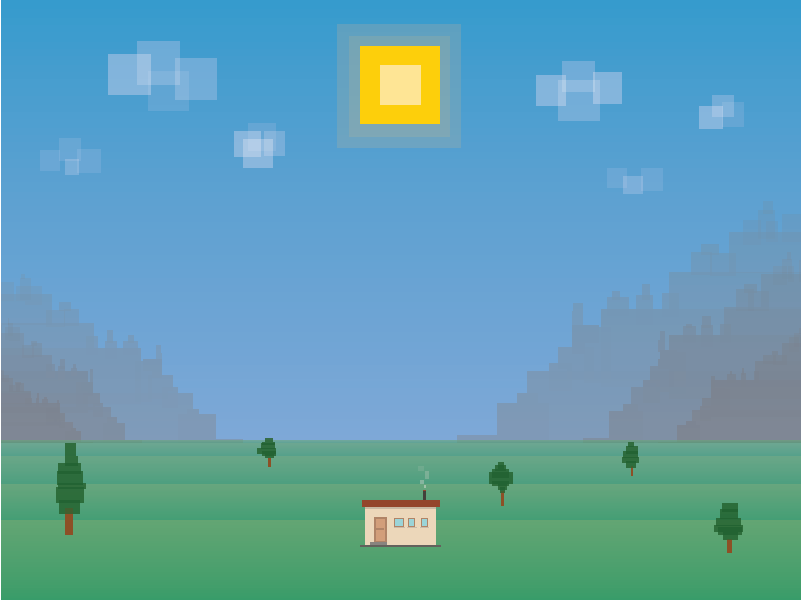
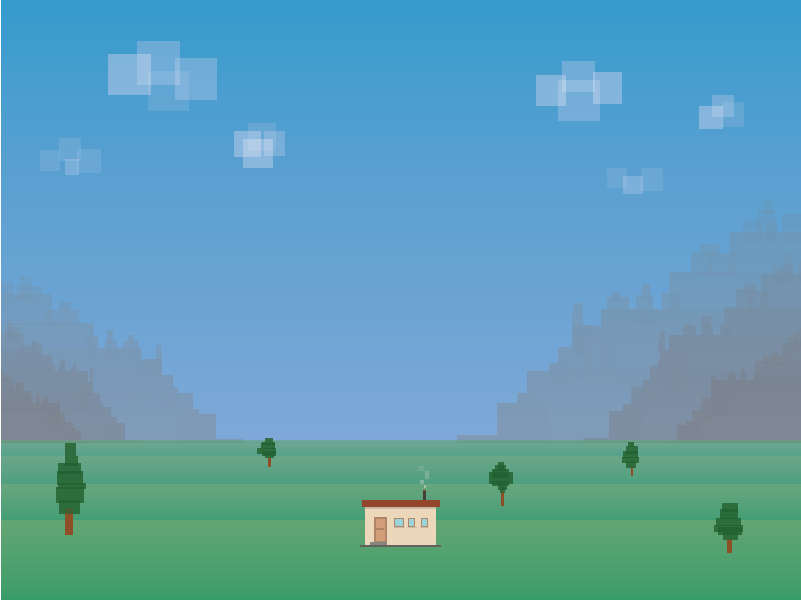
Shake sun on hit

Changed region(s): [[0.4057, 0.03, 0.593, 0.27]]

diff --git a/web/js/game.js b/web/js/game.js
@@ -64,6 +64,7 @@ window.GhostLand.Game = (function(GhostLand){
       , intro: null
       , start: null
       }
+    , sun
 
   function init() {
     game = new Phaser.Game(Settings.width, Settings.height, Phaser.AUTO, 'ghost-land', {
@@ -78,6 +79,7 @@ window.GhostLand.Game = (function(GhostLand){
     game.load.image('bg-night', 'assets/bg-night.png');
     game.load.spritesheet('sprite-ghost', 'assets/sprite-ghost.png', 74, 53, 6, 0, 1);
     game.load.spritesheet('sprite-home', 'assets/sprite-home.png', 79, 82, 4, 0, 1);
+    game.load.spritesheet('sprite-sun', 'assets/sprite-sun.png', 124, 124, 1);
     game.load.audio('audio-death', 'assets/audio/death.mp3')
     game.load.audio('audio-gameplay', 'assets/audio/gameplay.mp3')
     game.load.audio('audio-hit', 'assets/audio/hit.mp3')
@@ -146,6 +148,10 @@ window.GhostLand.Game = (function(GhostLand){
       // Hit the sun
       if (x > 338 && x < 463 && y > 27 && y < 152) {
         currentStateHits++
+        sun && game.add.tween(sun)
+          .to({x: 400 - 62 + 10}, 40, Phaser.Easing.Bounce.InOut, true, 0, 3, true);
+      } else {
+        currentStateHits = 0
       }
     }
 
@@ -206,6 +212,7 @@ window.GhostLand.Game = (function(GhostLand){
       audio.start && audio.start.play()
       audio.intro && audio.intro.isPlaying && audio.intro.stop()
       audio.gameplay && !audio.gameplay.isPlaying && audio.gameplay.play()
+      sun && sun.destroy() && (sun = null)
     } else {
       Enemies.stop()
       Home.hide()
@@ -215,6 +222,10 @@ window.GhostLand.Game = (function(GhostLand){
 
       if (nextState === 'death') {
         audio.death && audio.death.play()
+      }
+
+      if (!sun) {
+        sun = game.add.sprite(400 - 62, 24, 'sprite-sun')
       }
     }
   }

diff --git a/web/js/home.js b/web/js/home.js
@@ -23,7 +23,7 @@ window.GhostLand.Home = (function(GhostLand){
 
   function hit() {
     home && game.add.tween(home)
-      .to({x: homeX + 10}, 100, Phaser.Easing.Bounce.InOut, true, 0, 0, true);
+      .to({x: homeX + 10}, 50, Phaser.Easing.Bounce.InOut, true, 0, 3, true);
   }
 
   return {
